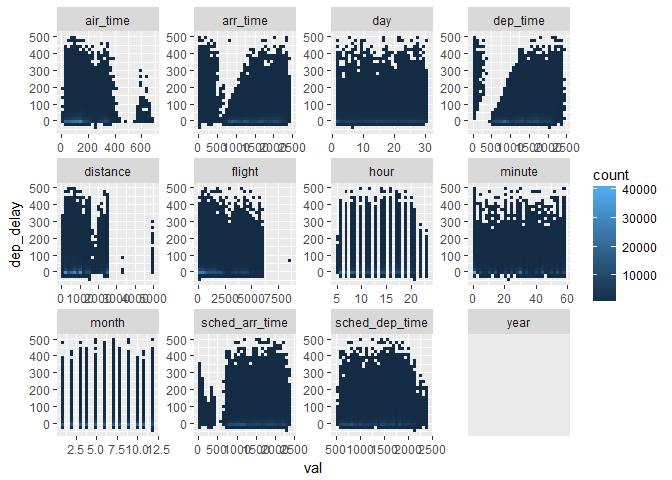
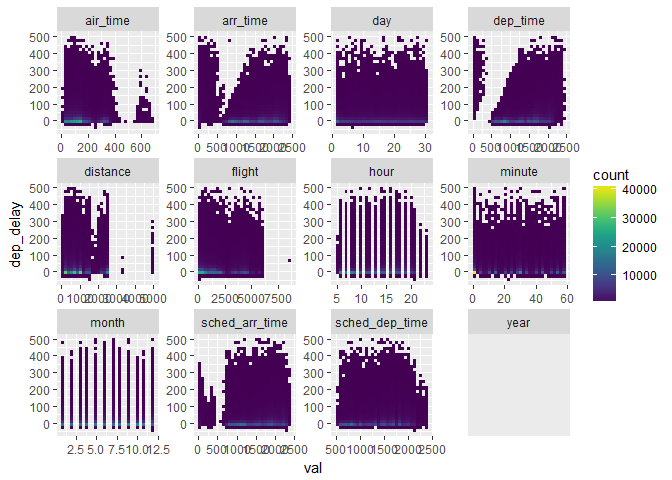
EDA complete! :sparkles:

diff --git a/README.md b/README.md
@@ -308,7 +308,8 @@ flights_tbl %>%
   dep_delay<500) %>% # takes out the extreme ones
   ggplot(aes(x=val, y=dep_delay)) +
     geom_bin2d() + #heatmap with squaredots
-    facet_wrap(~col, scales = "free") #use the range for the individual column, don't put them on the same scale
+    facet_wrap(~col, scales = "free") + #use the range for the individual column, don't put them on the same scale
+  scale_fill_gradientn(colours = viridisLite::viridis(256, option = "D"))
 ```
 
     ## Applying predicate on the first 100 rows
